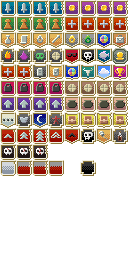
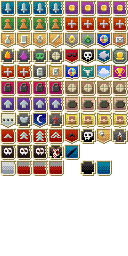
0.7.0 new badges.

Changed region(s): [[0.375, 0.5625, 0.625, 0.625], [0.75, 0.625, 0.875, 0.6875]]

diff --git a/core/src/main/java/com/egoal/darkestpixeldungeon/Badges.kt b/core/src/main/java/com/egoal/darkestpixeldungeon/Badges.kt
@@ -174,7 +174,9 @@ object Badges {
         GAMES_PLAYED_4(63, true),
         HAPPY_END(38, true),
         CHAMPION(39, true),
-        SUPPORTER(31, true);
+        SUPPORTER(31, true),
+        MASK_OF_MADNESS(75),
+        WAND_OF_DISINTEGRATION(76);
 
         fun desc(): String = M.L(this, name)
     }
@@ -963,6 +965,14 @@ object Badges {
             if (Dungeon.hero.challenge != Challenge.LowPressure) displayBadge(Badge.CHAMPION)
             Challenge.PassChallenge(Dungeon.hero.challenge!!)
         }
+    }
+
+    fun validate_MaskOfMadness() {
+        if (!Dungeon.IsChallenged()) displayBadge(Badge.MASK_OF_MADNESS)
+    }
+
+    fun validate_WandOfDisintergration() {
+        if (!Dungeon.IsChallenged()) displayBadge(Badge.WAND_OF_DISINTEGRATION)
     }
 
     private fun displayBadge(badge: Badge?) {

diff --git a/core/src/main/java/com/egoal/darkestpixeldungeon/items/wands/WandOfDisintegration.kt b/core/src/main/java/com/egoal/darkestpixeldungeon/items/wands/WandOfDisintegration.kt
@@ -20,6 +20,7 @@
  */
 package com.egoal.darkestpixeldungeon.items.wands
 
+import com.egoal.darkestpixeldungeon.Badges
 import com.egoal.darkestpixeldungeon.Dungeon
 import com.egoal.darkestpixeldungeon.DungeonTilemap
 import com.egoal.darkestpixeldungeon.actors.Actor
@@ -98,6 +99,7 @@ class WandOfDisintegration : DamageWand(isMissile = false) {
             ch.sprite.centerEmitter().burst(PurpleParticle.BURST, Random.IntRange(1, 2))
             ch.sprite.flash()
         }
+        if (chars.count { !it.isAlive } >= 3) Badges.validate_WandOfDisintergration()
     }
 
     override fun onHit(staff: MagesStaff, damage: Damage) {

diff --git a/core/src/main/java/com/egoal/darkestpixeldungeon/items/helmets/MaskOfMadness.kt b/core/src/main/java/com/egoal/darkestpixeldungeon/items/helmets/MaskOfMadness.kt
@@ -1,5 +1,6 @@
 package com.egoal.darkestpixeldungeon.items.helmets
 
+import com.egoal.darkestpixeldungeon.Badges
 import com.egoal.darkestpixeldungeon.actors.Char
 import com.egoal.darkestpixeldungeon.actors.Damage
 import com.egoal.darkestpixeldungeon.actors.hero.Hero
@@ -42,6 +43,7 @@ class MaskOfMadness : Helmet() {
 
             upgrade()
             GLog.p(Messages.get(this, "levelup"))
+            if (level() == 10) Badges.validate_MaskOfMadness()
         }
     }
 
